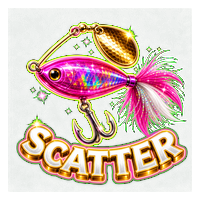
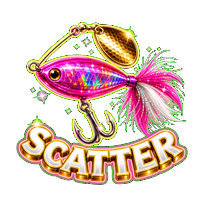
Dedupe paylines, add demoMode toggle, tune scatter frequency, fix scatter transparency

diff --git a/index.html b/index.html
@@ -36,6 +36,9 @@
   <span style="width:18px;height:18px;left:68%;bottom:-20px;animation-duration:13s;animation-delay:13s"></span>
 </div>
 
+<!-- ░░░ DEMO/REAL MODE TOGGLE (fixed top-right, left of SPEED) ░░░ -->
+<button id="demo-toggle-btn" title="Toggle demo mode (guaranteed early wins) vs real RNG" aria-label="Toggle demo or real spin mode">DEMO</button>
+
 <!-- ░░░ SPEED TOGGLE (fixed top-right, left of MODE) ░░░ -->
 <button id="speed-toggle-btn" title="Change spin speed" aria-label="Change spin speed">⚡ ×1</button>
 
@@ -223,6 +226,9 @@
   <!-- Speed toggle (mirrors the desktop ⚡ button) -->
   <button id="mobile-speed-toggle">⚡ SPEED: ×1</button>
 
+  <!-- Demo/Real toggle (mirrors the desktop DEMO/REAL button) -->
+  <button id="mobile-demo-toggle">🎲 SPINS: DEMO</button>
+
   <!-- Payline hint -->
   <p id="mobile-payline-hint">10 Lines &nbsp;·&nbsp; Wild replaces all &nbsp;·&nbsp; 3+ Scatter = Free Spins &nbsp;·&nbsp; Spacebar = Spin</p>
 </div>
@@ -247,7 +253,7 @@
         <div id="pl-grid">
           <p>1 · Middle row &nbsp; 2 · Top row &nbsp; 3 · Bottom row</p>
           <p>4 · V shape &nbsp; 5 · Inverted V</p>
-          <p>6 · Top→Mid→Bot→Mid→Top &nbsp; 7 · Bot→Mid→Top→Mid→Bot</p>
+          <p>6 · Top-Top-Mid-Top-Top &nbsp; 7 · Bot-Bot-Mid-Bot-Bot</p>
           <p>8 · Top-Top-Mid-Bot-Bot &nbsp; 9 · Bot-Bot-Mid-Top-Top</p>
           <p>10 · Mid-Top-Mid-Bot-Mid</p>
         </div>
@@ -359,6 +365,36 @@
       const mobileToggle = document.getElementById('mobile-frame-toggle');
       if (mobileToggle) mobileToggle.textContent = off ? '⬡ MODE: TRANSPARENT' : '⬡ MODE: GOLD FRAME';
     });
+  })();
+
+  // ── Demo/Real mode toggle — flips CONFIG.demoMode (syncs desktop + mobile) ──
+  (function () {
+    const desktopBtn = document.getElementById('demo-toggle-btn');
+    const mobileBtn  = document.getElementById('mobile-demo-toggle');
+
+    function render() {
+      // CONFIG is defined in game.js, loaded before this script
+      const isDemo = typeof CONFIG !== 'undefined' ? CONFIG.demoMode : true;
+      if (desktopBtn) {
+        desktopBtn.textContent = isDemo ? 'DEMO' : 'REAL';
+        desktopBtn.title = isDemo
+          ? 'Demo mode: early spins are boosted/guaranteed — click for real RNG'
+          : 'Real mode: pure weighted RNG — click for demo mode';
+      }
+      if (mobileBtn) {
+        mobileBtn.textContent = isDemo ? '🎲 SPINS: DEMO' : '🎲 SPINS: REAL';
+      }
+    }
+
+    function toggle() {
+      if (typeof CONFIG === 'undefined') return;
+      CONFIG.demoMode = !CONFIG.demoMode;
+      render();
+    }
+
+    if (desktopBtn) desktopBtn.addEventListener('click', toggle);
+    if (mobileBtn)  mobileBtn.addEventListener('click', toggle);
+    render();
   })();
 
   // ── Mobile drawer ──

diff --git a/style.css b/style.css
@@ -810,6 +810,31 @@ html, body {
   box-shadow: 0 0 20px rgba(255,210,0,0.55), 0 3px 10px rgba(0,0,0,0.5);
 }
 
+/* ─── Demo/Real Mode Toggle Button (fixed top-right, left of SPEED) ─── */
+#demo-toggle-btn {
+  position: fixed;
+  top: 16px; right: 192px;  /* sits left of the speed toggle with a small gap */
+  z-index: 200;
+  height: 36px;
+  padding: 0 14px;
+  border-radius: 18px;
+  border: 2px solid rgba(255,210,0,0.6);
+  background: rgba(0,20,60,0.65);
+  color: var(--gold);
+  font-size: 0.75rem; font-weight: 900;
+  font-family: 'Nunito', sans-serif;
+  letter-spacing: 0.1em;
+  cursor: pointer;
+  display: flex; align-items: center; justify-content: center;
+  box-shadow: 0 0 12px rgba(255,200,0,0.3), 0 3px 8px rgba(0,0,0,0.4);
+  transition: transform 0.15s, box-shadow 0.15s;
+  white-space: nowrap;
+}
+#demo-toggle-btn:hover {
+  transform: scale(1.05);
+  box-shadow: 0 0 20px rgba(255,210,0,0.55), 0 3px 10px rgba(0,0,0,0.5);
+}
+
 /* ─── Frame Toggle Button (fixed top-right) ────────────────────────── */
 #frame-toggle-btn {
   position: fixed;
@@ -837,7 +862,8 @@ html, body {
 /* Hide fixed overlays when paytable is open */
 body.paytable-open #profile-widget,
 body.paytable-open #frame-toggle-btn,
-body.paytable-open #speed-toggle-btn { display: none; }
+body.paytable-open #speed-toggle-btn,
+body.paytable-open #demo-toggle-btn { display: none; }
 
 /* ─── Transparent mode (no gold frame) ─────────────────────────────── */
 #game-board.frame-off {
@@ -1313,10 +1339,11 @@ body.paytable-open #mobile-menu-btn { display: none; }
 @media (max-width: 599px) {
   :root { --cell-size: clamp(62px, 16.5vw, 74px); }
 
-  /* Show mobile menu btn; hide desktop MODE + SPEED btns */
+  /* Show mobile menu btn; hide desktop MODE + SPEED + DEMO btns */
   #mobile-menu-btn { display: flex; }
   #frame-toggle-btn { display: none; }
   #speed-toggle-btn { display: none; }
+  #demo-toggle-btn { display: none; }
 
   #profile-btn  { width: 62px; height: 62px; }
   #profile-picker { top: 72px; }

diff --git a/game.js b/game.js
@@ -18,6 +18,11 @@
 // ═══════════════════════════════════════════════════════════════════════════
 
 const CONFIG = {
+  // Demo mode = early-spin guaranteed wins + hardcoded showcase spins (good for
+  // a portfolio/demo build so features are visible fast). Set to false for
+  // "real" slot behaviour — pure weighted RNG from the very first spin.
+  demoMode : true,
+
   startingBalance : 15_000_000,
   betLevels       : [10_000, 20_000, 50_000, 100_000, 200_000, 500_000],
   defaultBetIndex : 1,
@@ -54,7 +59,7 @@ const SYMBOLS = [
   { id:'octopus',            label:'Octopus',        img:'assets/octopus.png',            weight:5,   payouts:{3:0.8, 4:2.5, 5:6.0 } },
   { id:'treasure_chest',     label:'Treasure Chest', img:'assets/treasure_chest.png',     weight:3,   payouts:{3:1.5, 4:5.0, 5:12.0} },
   { id:'wild_golden_net',    label:'Wild',           img:'assets/wild_golden_net.png',    weight:1.5, payouts:null, isWild:true    },
-  { id:'scatter_lucky_lure', label:'Scatter',        img:'assets/scatter_lucky_lure.png', weight:0.5, payouts:null, isScatter:true },
+  { id:'scatter_lucky_lure', label:'Scatter',        img:'assets/scatter_lucky_lure.png', weight:3,   payouts:null, isScatter:true },
 ];
 
 const SYMBOL_POOL = [];
@@ -73,8 +78,8 @@ const PAYLINES = [
   [2,2,2,2,2],  // 3  Bottom row
   [0,1,2,1,0],  // 4  V shape
   [2,1,0,1,2],  // 5  Inverted V
-  [0,1,2,1,0],  // 6  (same pattern as 4)
-  [2,1,0,1,2],  // 7  (same pattern as 5)
+  [0,0,1,0,0],  // 6  Top-Top-Mid-Top-Top
+  [2,2,1,2,2],  // 7  Bottom-Bottom-Mid-Bottom-Bottom
   [0,0,1,2,2],  // 8  Top-Top-Mid-Bot-Bot
   [2,2,1,0,0],  // 9  Bot-Bot-Mid-Top-Top
   [1,0,1,2,1],  // 10 Mid-Top-Mid-Bot-Mid
@@ -127,6 +132,8 @@ const GUARANTEED_SPINS = new Set([3, 7, 13, 18]);
 
 function generateBoostedGrid() {
   const grid = generateGrid();
+  if (!CONFIG.demoMode) return grid;  // real mode — pure weighted RNG, no forced wins
+
   const n = state.spinCount;
 
   // ── Hardcoded showcase spins ──────────────────────────────────────────